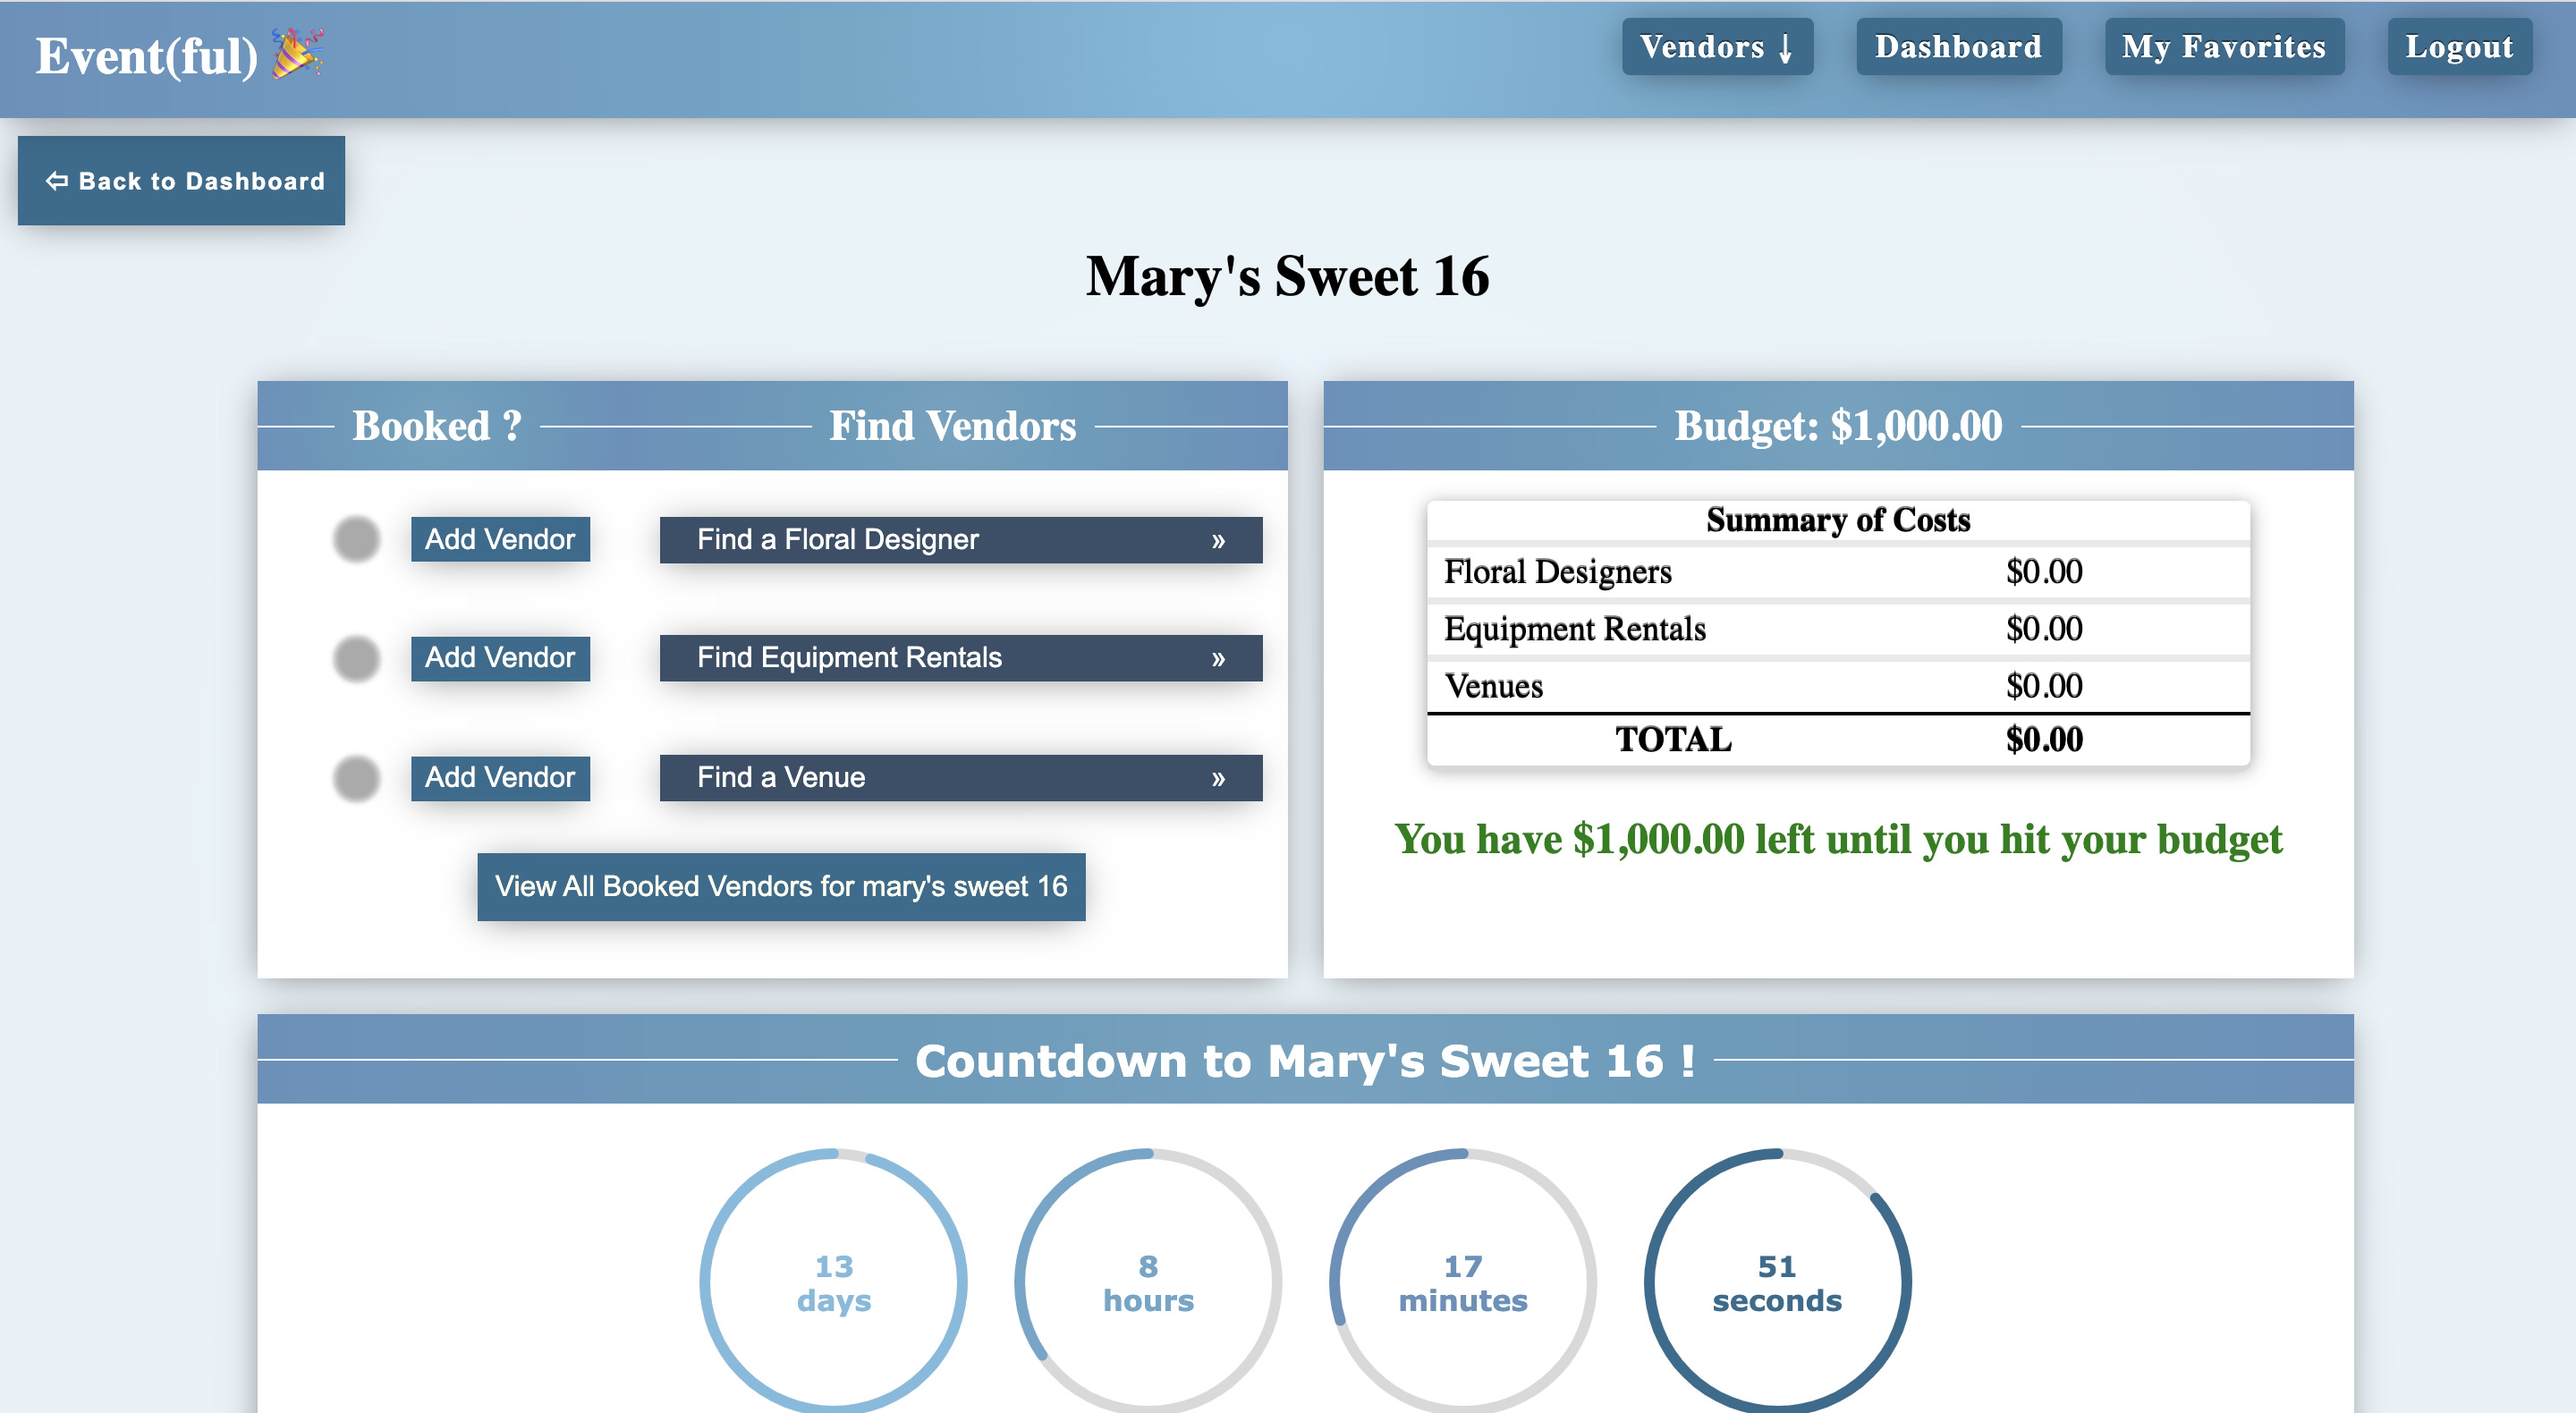
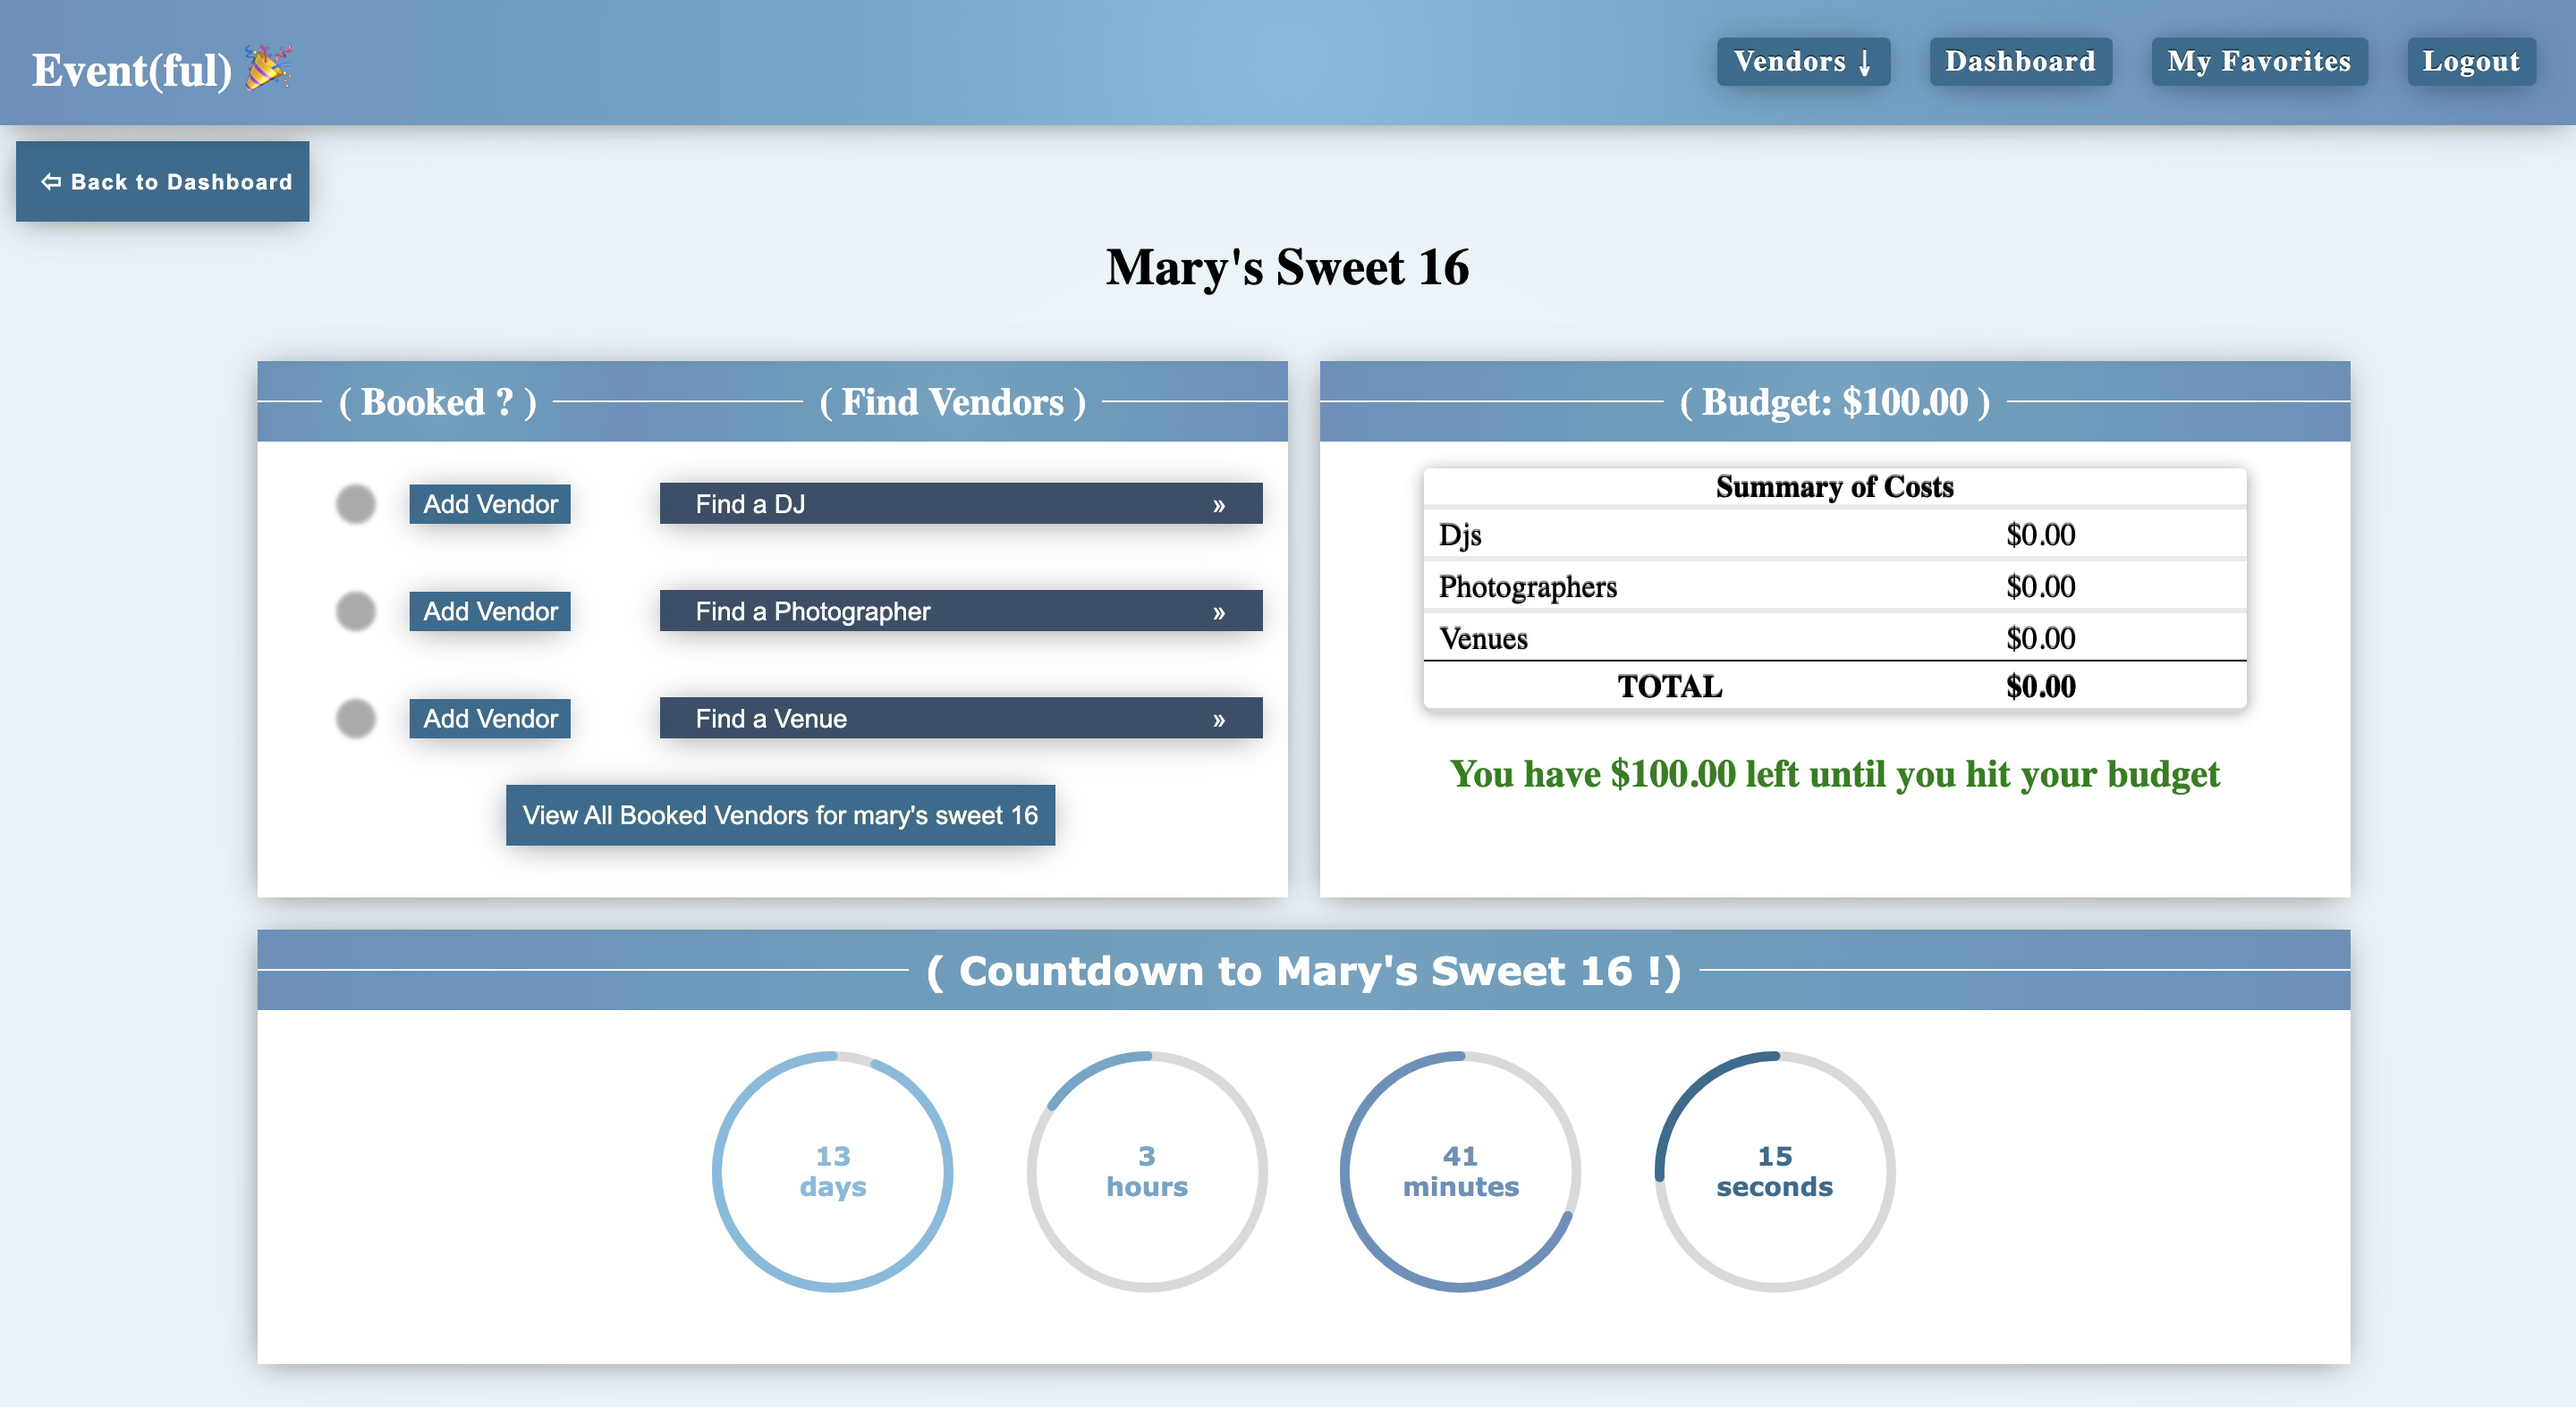
add parentheses to missing pgs

Changed region(s): [[0.0938, 0.249, 0.9375, 1.0], [0.0, 0.0, 1.0, 0.1868], [0.4062, 0.1557, 0.5938, 0.2179]]

diff --git a/front-end/src/Pages/EventPage.js b/front-end/src/Pages/EventPage.js
@@ -91,8 +91,8 @@ export default function Event({ formatter, user_id }) {
         </h1>
         <div className="eventpage-container ">
           <div id="checklist-container" className="evenpg-containers drop">
-            <h2 className="col-h">Booked ?</h2>
-            <h2 className="col-h">Find Vendors</h2>
+            <h2 className="col-h">( Booked ? )</h2>
+            <h2 className="col-h">( Find Vendors )</h2>
             <Checklist
               categories={categories}
               user_id={user_id}
@@ -103,7 +103,7 @@ export default function Event({ formatter, user_id }) {
           </div>
 
           <div id="budget-container" className="evenpg-containers drop">
-            <h2 className="col-h">Budget: {formatter.format(budget)}</h2>
+            <h2 className="col-h">( Budget: {formatter.format(budget)} )</h2>
             <Budget
               categories={categories}
               budget={budget}
@@ -113,7 +113,7 @@ export default function Event({ formatter, user_id }) {
           </div>
 
           <div id="countdown-container" className="evenpg-containers drop">
-            <h2 className="col-h">Countdown to {CapitalizeEvent(eventName)} !</h2>
+            <h2 className="col-h">( Countdown to {CapitalizeEvent(eventName)} !)</h2>
             <Timer user_id={user_id} />
           </div>
         </div>

diff --git a/front-end/src/App.css b/front-end/src/App.css
@@ -810,6 +810,16 @@ span.press {
 }
 /* EditBooked*/
 
+.task-head {
+  margin-bottom: 10px;
+  /* margin-top: 10px; */
+}
+
+.task-blue {
+  padding: 0;
+  height: max-content;
+  padding-bottom: 20px;
+}
 .directions {
   font-size: larger;
   text-align: center;
@@ -1703,6 +1713,24 @@ span.press {
 }
 
 @media only screen and (max-width: 320px) {
+  /* EVENT PAGE */
+
+  .eventpage-container {
+    font-size: small;
+  }
+
+  .checklist-button {
+    font-size: small;
+  }
+
+  .check,
+  .x {
+    font-size: small;
+  }
+
+  .book-buttons button {
+    width: 80px;
+  }
   /* VENDOR INDEX */
   #zip-form {
     flex-direction: column;
@@ -1748,6 +1776,24 @@ span.press {
 
   .eventcheckbox-pg section {
     width: 95%;
+  }
+
+  /* LANDING / SIGN IN - UP */
+
+  .Landing .col-h {
+    width: 100%;
+  }
+
+  .signIn-container {
+    width: 100%;
+  }
+
+  .newForm input {
+    width: 90%;
+  }
+
+  .Landing {
+    margin-top: 0;
   }
 }
 

diff --git a/front-end/src/Components/VendorIndex/Vendor.js b/front-end/src/Components/VendorIndex/Vendor.js
@@ -10,11 +10,11 @@ function Vendor({ vendor, selected }) {
       <li
         className={`flex-col three-d ${
           (location[1] === "task" && !selected) || location[1] === "vendors"
-            ? "ven-li-blue "
+            ? "ven-li-blue"
             : "ven-li"
-        }`}
+        } ${location[1] === "task" && !selected ? "task-blue" : null }`}
       >
-        {location[1] === "task" ? <h2>{vendor.name}</h2> : null}
+        {location[1] === "task" ? <h2 className="task-head col-h"> ( {vendor.name} )</h2> : null}
         <img src={vendor.image_url} alt={vendor.name} className="ven-img" />
         {location[1] !== "task" ? <h2>{vendor.name}</h2> : null}
         <p>Phone: {vendor.display_phone}</p>

diff --git a/front-end/src/Components/Favorites/Favorite.js b/front-end/src/Components/Favorites/Favorite.js
@@ -20,7 +20,7 @@ export default function Favorite({ vendors, vendor, deleteFav }) {
           vendors.length === 1 ? "one-li" : null
         }`}
       >
-        <h2 className="col-h">{vendor.vendor_name}</h2>
+        <h2 className="col-h">( {vendor.vendor_name} )</h2>
         <img
           src={vendor.vendor_image}
           alt={vendor.vendor_name}

diff --git a/front-end/src/Components/VendorShow/VendorReviews.js b/front-end/src/Components/VendorShow/VendorReviews.js
@@ -4,7 +4,7 @@ import VendorReview from "./VendorReview";
 function VendorReviews({ reviews }) {
   return (
     <div className="reviews">
-      <h2 className="show-header"> Reviews </h2>
+      <h2 className="show-header">( Reviews ) </h2>
       <div className="reviews-ul">
         <span>
       {reviews.map((review, i) => {

diff --git a/front-end/src/Components/Booked/BookedVendor.js b/front-end/src/Components/Booked/BookedVendor.js
@@ -9,7 +9,7 @@ export default function BookedVendor({ vendor }) {
       : phone;
   return (
     <>
-    <h2 className="col-h">{vendor.vendor_name}</h2>
+    <h2 className="col-h">( {vendor.vendor_name} )</h2>
       <img
         src={vendor.vendor_image}
         alt={vendor.vendor_name}
